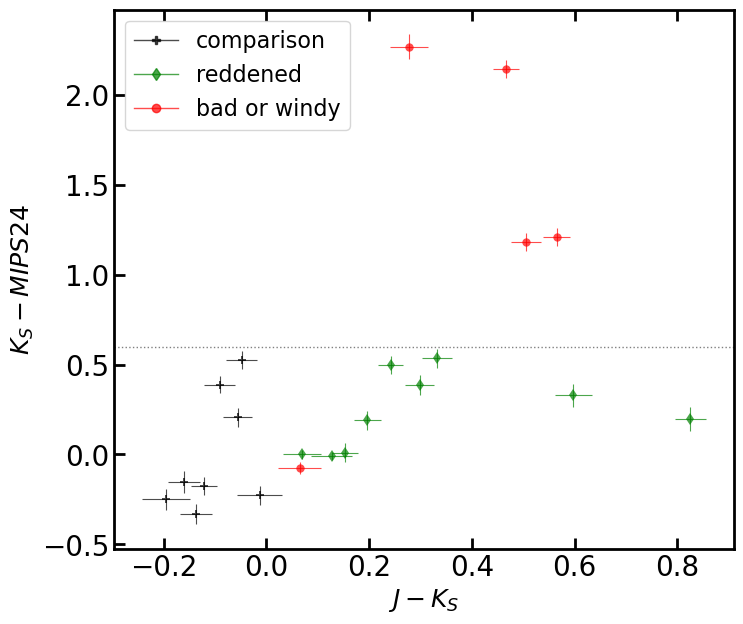
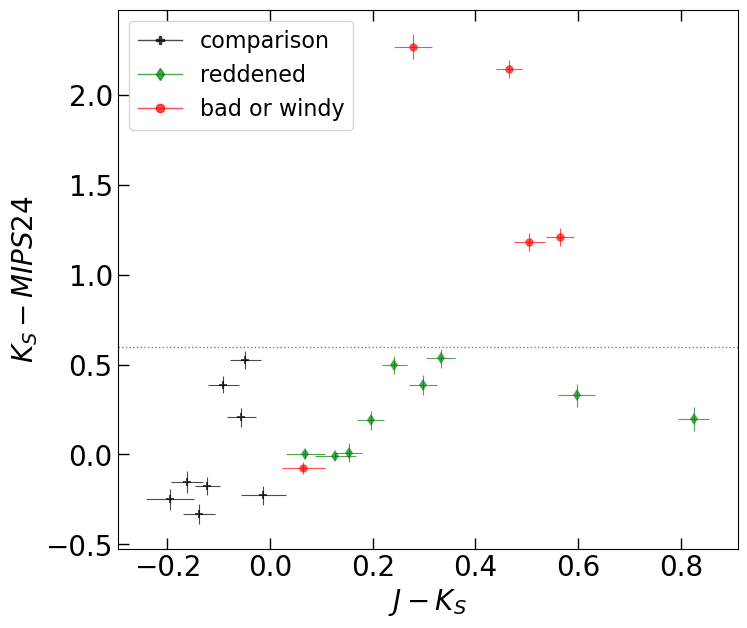
Fix plotting settings

diff --git a/plotting/plot_spex_spec.py b/plotting/plot_spex_spec.py
@@ -160,6 +160,7 @@ def plot_wind(inpath, outpath, comp_stars, red_stars, bad_stars):
     -------
     IR color-color plots
     """
+    plt.rc("axes", linewidth=0.8)
     stars = comp_stars + red_stars + bad_stars
     fig1, ax1 = plt.subplots(figsize=(8, 7))
     fig2, ax2 = plt.subplots(figsize=(8, 7))
@@ -226,10 +227,12 @@ def plot_wind(inpath, outpath, comp_stars, red_stars, bad_stars):
     # finalize and save the figures
     ax1.axhline(1.0, color="grey", ls=":")
     ax2.axhline(0.6, color="grey", ls=":")
-    ax1.set_xlabel(r"$J-K_S$")
-    ax1.set_ylabel(r"$K_S-WISE 4$")
-    ax2.set_xlabel(r"$J-K_S$")
-    ax2.set_ylabel(r"$K_S-MIPS 24$")
+    ax1.set_xlabel(r"$J-K_S$", fontsize=fs)
+    ax1.set_ylabel(r"$K_S-WISE 4$", fontsize=fs)
+    ax2.set_xlabel(r"$J-K_S$", fontsize=fs)
+    ax2.set_ylabel(r"$K_S-MIPS 24$", fontsize=fs)
+    ax1.tick_params(width=1)
+    ax2.tick_params(width=1)
 
     labels = ["comparison", "reddened", "bad or windy"]
     handle1 = Line2D([], [], lw=1, color="black", marker="P", alpha=0.7)
